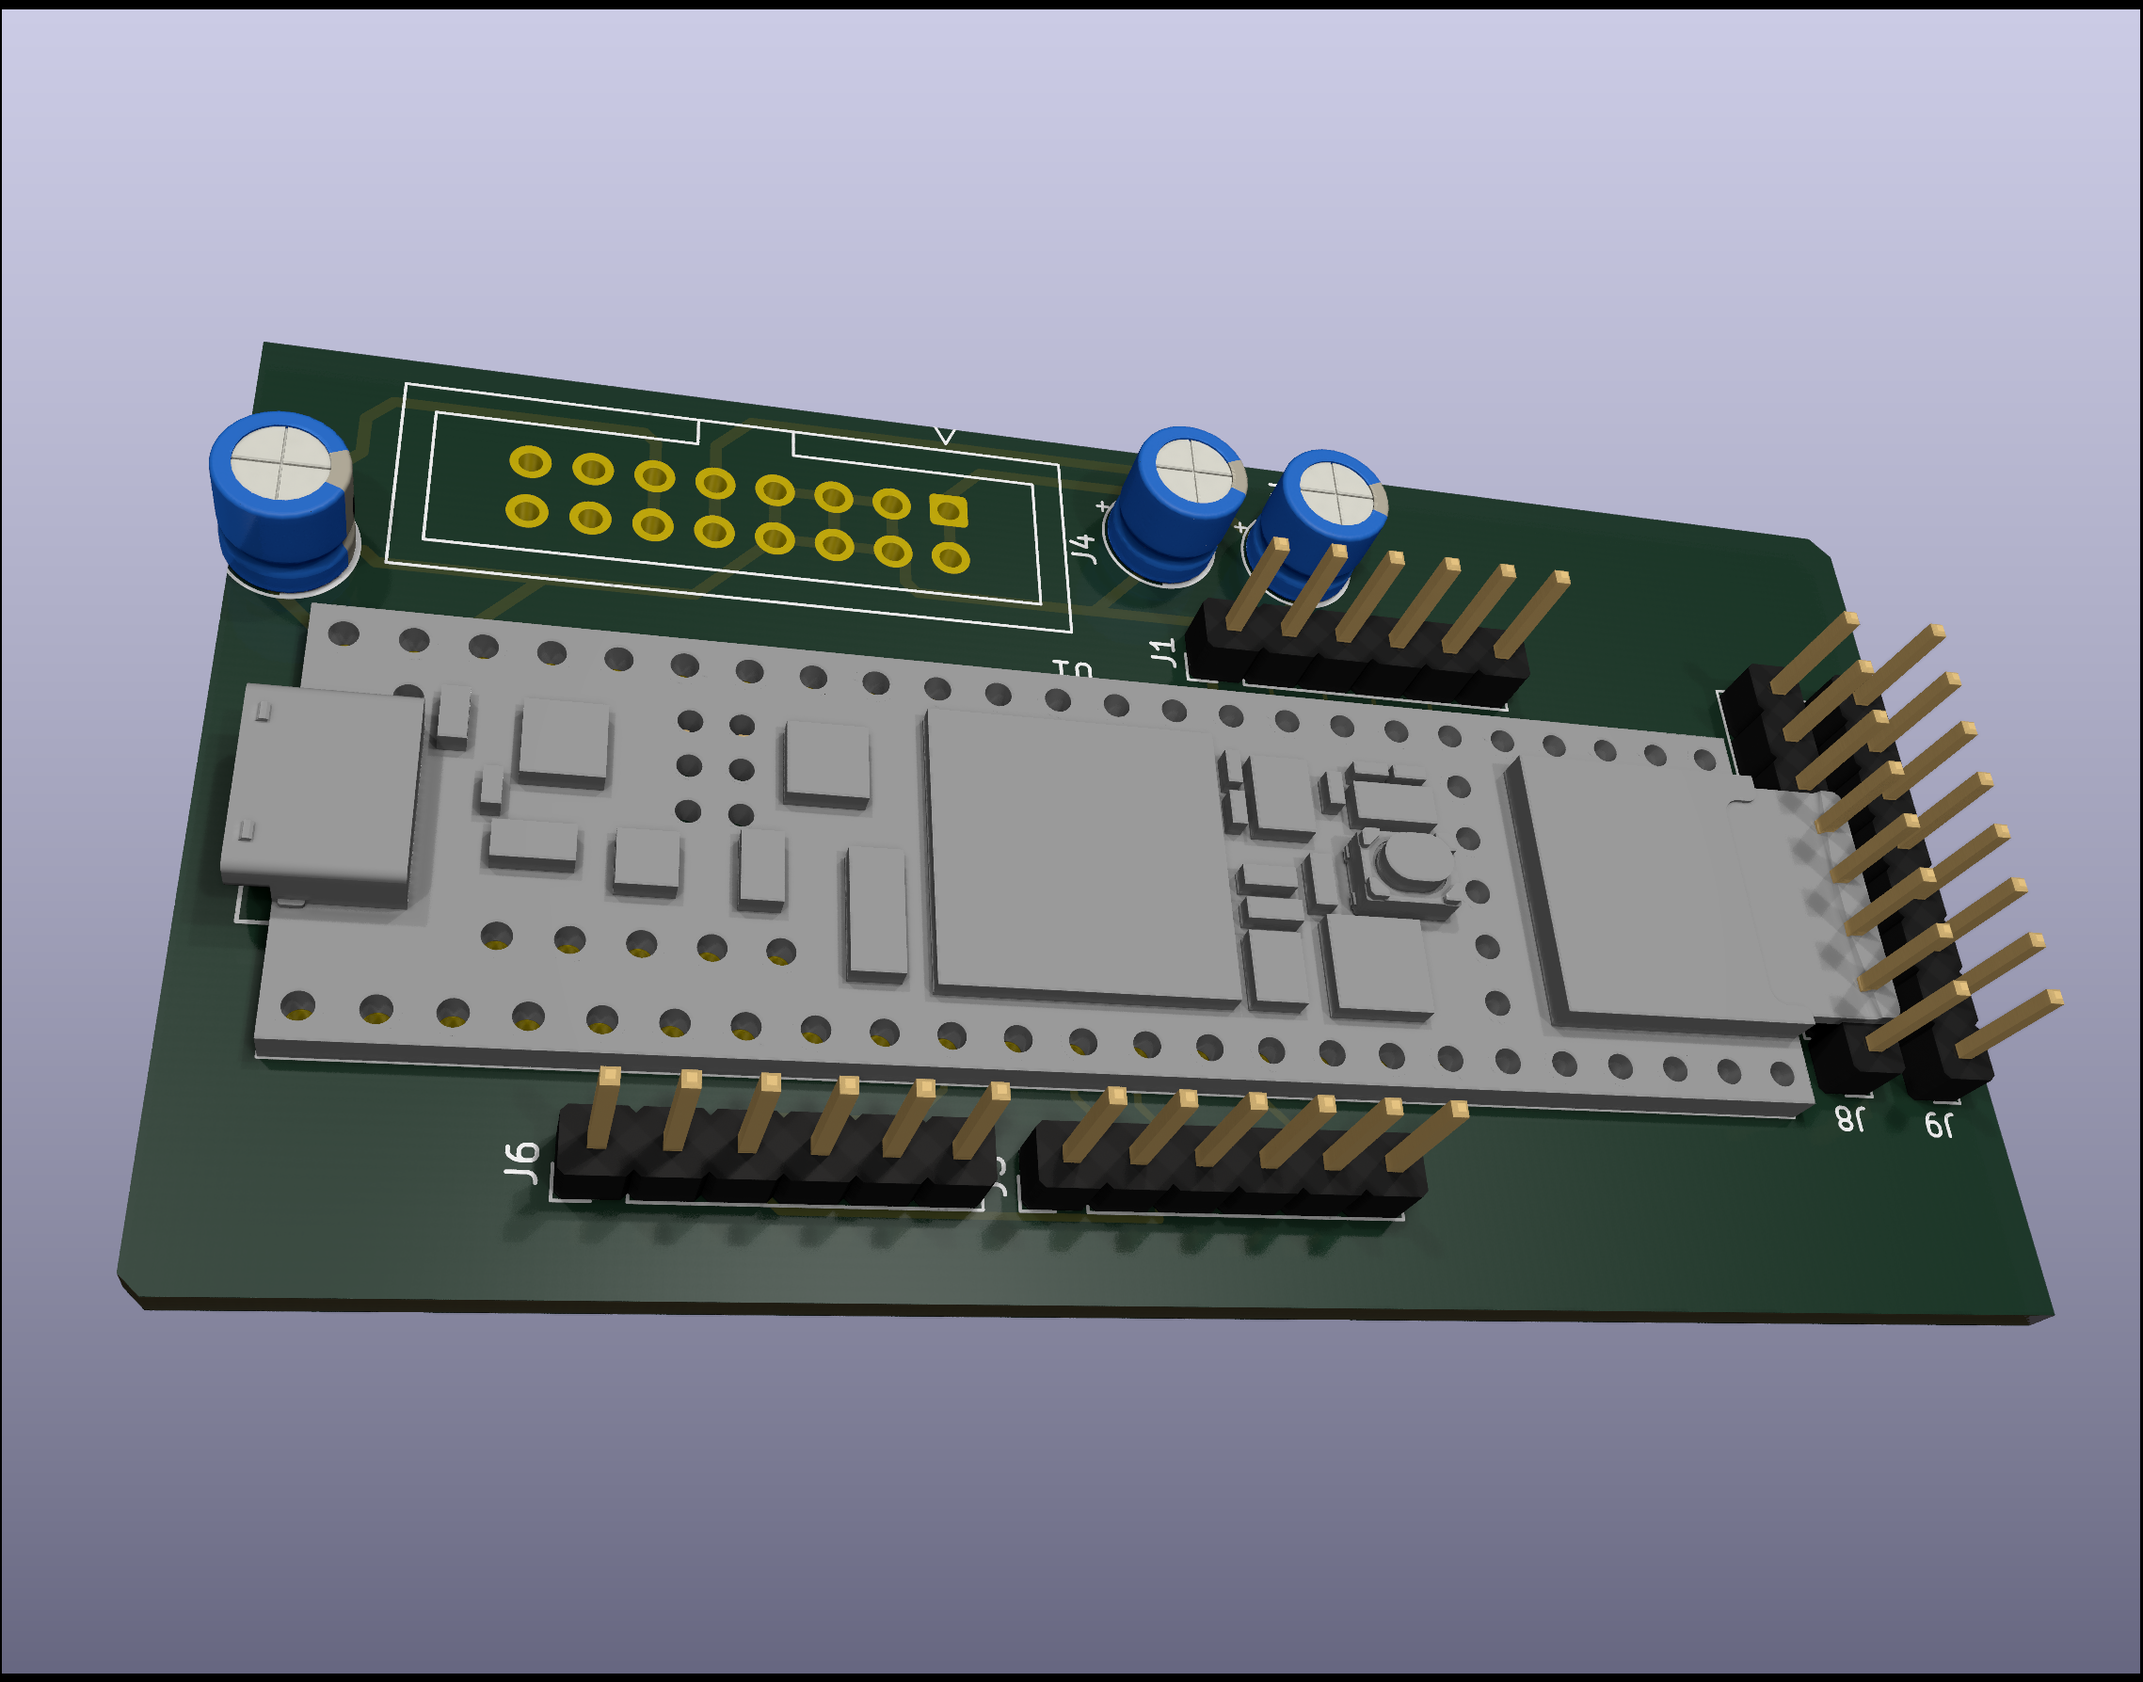
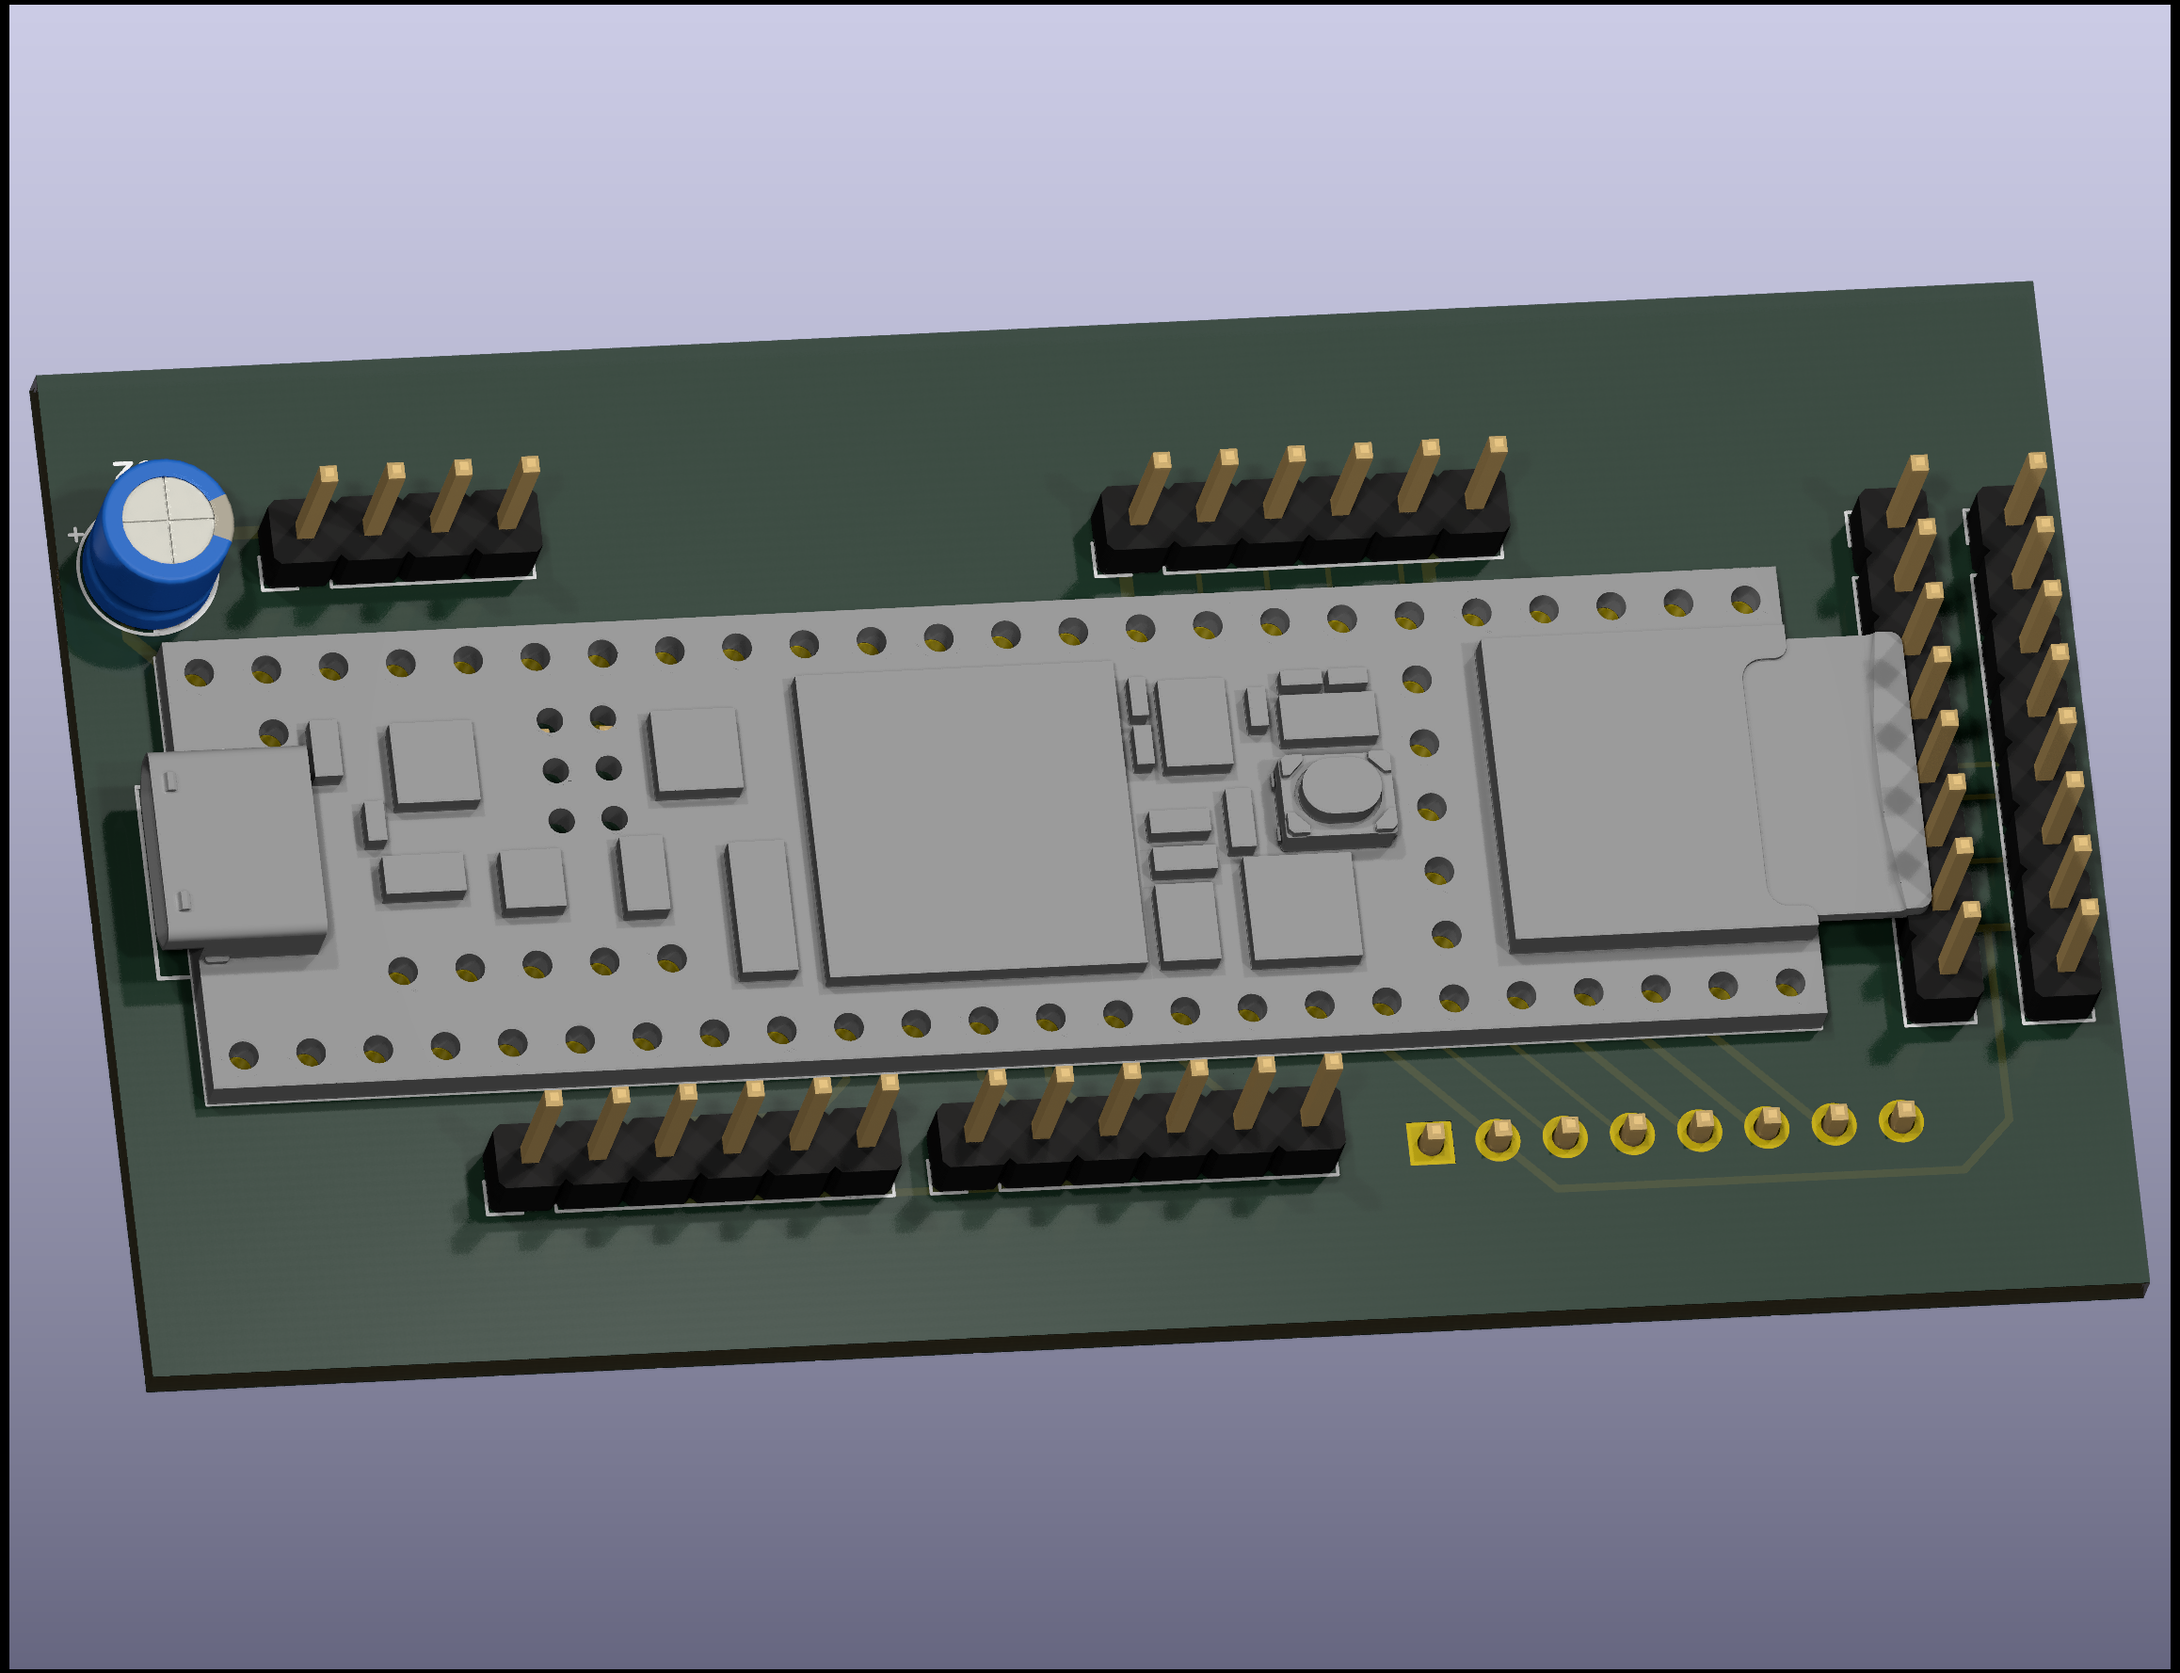
MPU

diff --git a/Duophonic/MPU-board.md b/Duophonic/MPU-board.md
@@ -116,7 +116,7 @@ The three connectors for SPI 0 are 6-pin whose pinout is (pin1 is square pad)
 - 34 RST-Display  (any convenient)
 - 35 DC-Display (any convenient)
 
-The three connectors for SPI 1 are 8-pin whose pinout is (pin1 is square pad)
+The three connectors for SPI 1 are 8-pin whose pinout is (pin1 is square pad). The two for PerfDAC are:
 
 - GND
 - 3V3
@@ -125,6 +125,17 @@ The three connectors for SPI 1 are 8-pin whose pinout is (pin1 is square pad)
 - MOSI
 - SCLK
 - 3V3
+- GND
+
+The one for display differs (still 8 pins):
+
+- GND
+- 3V3
+- MOSI
+- SCLK
+- DC
+- RST
+- CS
 - GND
 
 The two for PerfDAC go off-board with ribbon cables while the third, for the [display board](./display-board.md), connects under the Teensy to the display, encoder, buttons board.
@@ -282,6 +293,8 @@ Depending on testing of [PerfDAC](), an additional pin for LDAC might be needed.
 Few components on the board, mainly breaking out to multi-pin connectors to other boards.
 The Eurorack power connector is now on a separate [power board](./Power.md).
 
+![MPU](./img/MPU-schematic.png)
+
 [MPU on socket in KiCad](https://forum.kicad.info/t/advise-one-choosing-components/51516/5)
 
 ## Board
@@ -289,6 +302,7 @@ The Eurorack power connector is now on a separate [power board](./Power.md).
 From the front panel mockup, dimensions are tight: 77mm wide by 39.5mm high. Could expand _one mm_ wider before colliding with the [Gate, LED, Tune](./Gate-LED.md) board, but needs enough room for the micro USB cable (unless using the D+, D- pads). Could expand _very slightly_ higher, constraints are staying within safe rack rail distances and not coliding with or pushing down the [PerfDAC2 (MIDI CC)](./performance-dac.md) board.
 
 Curent in-progress mockup is 76mm by 39mm so just fits within that. However connections to the DACs and display are suboptimal. SD slot is obstructed, too.
+
 
 ![front](./img/MPU-test.png)
 
